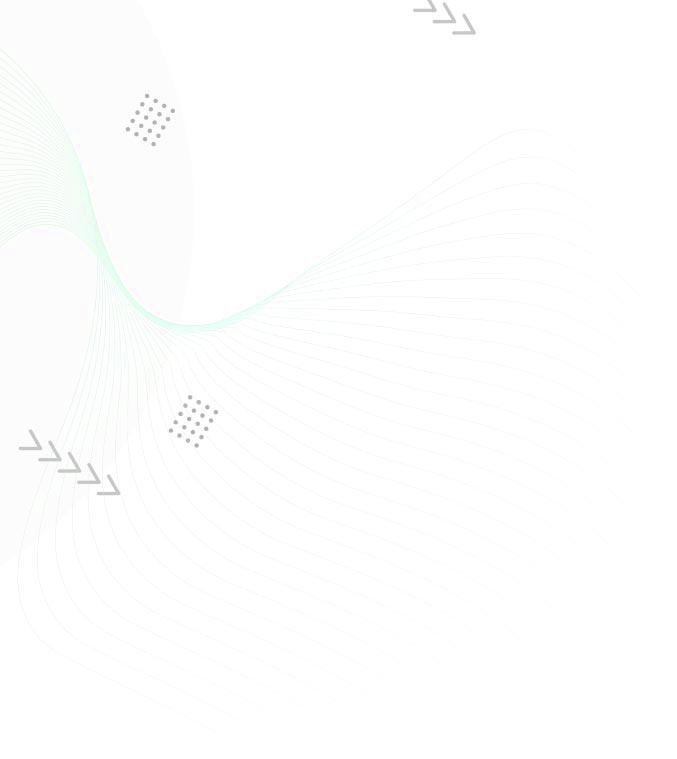
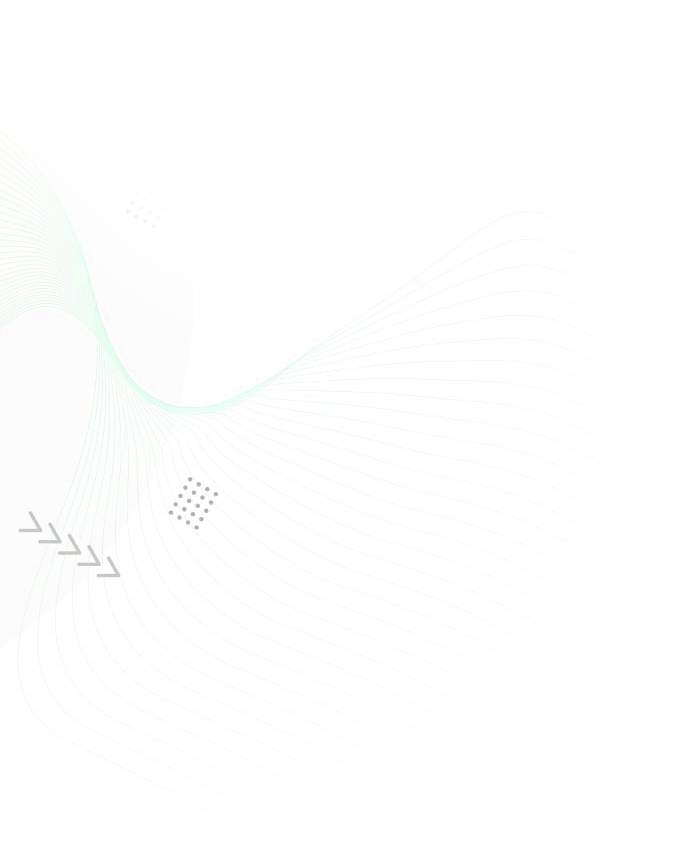
8/3/66

diff --git a/css/nutdesign.css b/css/nutdesign.css
@@ -1803,12 +1803,12 @@ portfolio
 
 .portfolio {
   position: relative;
-  padding-top: 180px;
+  padding-top: 150px;
 }
 
 .portfolio .section-heading {
   text-align: center;
-  margin-bottom: 150px;
+  margin-bottom: 50px;
 }
 
 .portfolio .section-heading .line-dec {
@@ -2299,9 +2299,9 @@ responsive
     margin-top: 45px;
   }
   .flourish .flourish-post {
-    background-image: url(../images/OT130Y0.jpg);
-    padding-top: 380px;
-    padding-bottom: 250px;
+    background-image: url(../images/portfolio-flourish2.jpg);
+    padding-top: 200px;
+    padding-bottom: 350px;
   }
   .flourish .tit2 {
     font-size: 18px;
